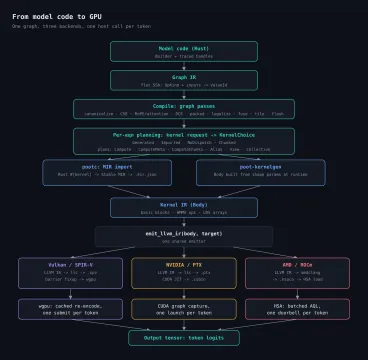
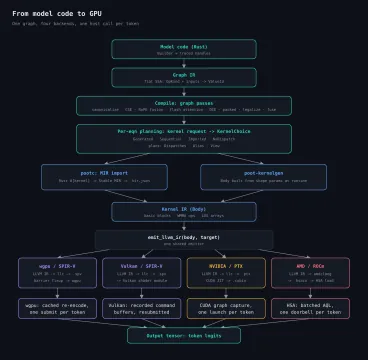
poot: refresh the four architecture diagrams from the poot repo and describe the raw Vulkan backend in their alt text

Changed region(s): [[0.0299, 0.0306, 0.9565, 0.9778], [0.0897, 0.4583, 0.1196, 0.5194]]

diff --git a/index.html b/index.html
@@ -54,10 +54,10 @@
               </summary>
               <div class="project-details">
                 <div class="project-gallery" id="poot-gallery">
-                  <label for="lb-poot-1"><img src="/projects/poot/compilation-pipeline-thumb.webp" width="368" height="360" alt="Pipeline from model code through graph IR, optimization, planning and kernel IR to SPIR-V, PTX and ROCm backends" loading="lazy" decoding="async"></label>
+                  <label for="lb-poot-1"><img src="/projects/poot/compilation-pipeline-thumb.webp" width="368" height="360" alt="Pipeline from model code through graph IR, optimization, planning and kernel IR to four backends: wgpu and raw Vulkan through SPIR-V, PTX on NVIDIA, and ROCm on AMD" loading="lazy" decoding="async"></label>
                   <label for="lb-poot-2"><img src="/projects/poot/model-tracing-thumb.webp" width="588" height="360" alt="A model written as a Rust function, traced into a graph IR that the CPU oracle or the planner consumes" loading="lazy" decoding="async"></label>
-                  <label for="lb-poot-3"><img src="/projects/poot/capture-replay-thumb.webp" width="680" height="360" alt="Per-token slots feeding one captured decode graph, replayed by the PTX, wgpu and ROCm backends" loading="lazy" decoding="async"></label>
-                  <label for="lb-poot-4"><img src="/projects/poot/rust-kernels-thumb.webp" width="629" height="360" alt="One Rust kernel imported through pootc and kernel IR and lowered to SPIR-V, PTX and AMDGCN" loading="lazy" decoding="async"></label>
+                  <label for="lb-poot-3"><img src="/projects/poot/capture-replay-thumb.webp" width="680" height="360" alt="Per-token slots feeding one captured decode graph, replayed by the PTX, wgpu, raw Vulkan and ROCm backends" loading="lazy" decoding="async"></label>
+                  <label for="lb-poot-4"><img src="/projects/poot/rust-kernels-thumb.webp" width="629" height="360" alt="One Rust kernel imported through pootc and kernel IR and lowered to SPIR-V (wgpu and raw Vulkan), PTX and AMDGCN" loading="lazy" decoding="async"></label>
                 </div>
                 <ul class="project-highlights">
                   <li>Forward pass traced once into a backend-neutral graph of primitive tensor ops, not opaque hand-written kernels.</li>
@@ -69,10 +69,10 @@
                   <li>Serving capabilities: an OpenAI-compatible HTTP API with embeddings, reranking, LoRA adapter management and metrics; text generation is being reconnected to the new single-sequence driver.</li>
                 </ul>
 <form class="lightboxes">
-                <input type="radio" name="lb-poot" id="lb-poot-1" class="lb-radio" aria-label="Pipeline from model code through graph IR, optimization, planning and kernel IR to SPIR-V, PTX and ROCm backends"><div class="lightbox" id="lightbox-poot-1"><button type="reset" class="lb-close" aria-label="Close"></button><img src="/projects/poot/compilation-pipeline.webp" width="2400" height="2350" alt="Pipeline from model code through graph IR, optimization, planning and kernel IR to SPIR-V, PTX and ROCm backends" loading="lazy" decoding="async"><label class="lb-prev" for="lb-poot-4" aria-label="Previous image">‹</label><label class="lb-next" for="lb-poot-2" aria-label="Next image">›</label></div>
+                <input type="radio" name="lb-poot" id="lb-poot-1" class="lb-radio" aria-label="Pipeline from model code through graph IR, optimization, planning and kernel IR to four backends: wgpu and raw Vulkan through SPIR-V, PTX on NVIDIA, and ROCm on AMD"><div class="lightbox" id="lightbox-poot-1"><button type="reset" class="lb-close" aria-label="Close"></button><img src="/projects/poot/compilation-pipeline.webp" width="2400" height="2350" alt="Pipeline from model code through graph IR, optimization, planning and kernel IR to four backends: wgpu and raw Vulkan through SPIR-V, PTX on NVIDIA, and ROCm on AMD" loading="lazy" decoding="async"><label class="lb-prev" for="lb-poot-4" aria-label="Previous image">‹</label><label class="lb-next" for="lb-poot-2" aria-label="Next image">›</label></div>
                 <input type="radio" name="lb-poot" id="lb-poot-2" class="lb-radio" aria-label="A model written as a Rust function, traced into a graph IR that the CPU oracle or the planner consumes"><div class="lightbox" id="lightbox-poot-2"><button type="reset" class="lb-close" aria-label="Close"></button><img src="/projects/poot/model-tracing.webp" width="2400" height="1470" alt="A model written as a Rust function, traced into a graph IR that the CPU oracle or the planner consumes" loading="lazy" decoding="async"><label class="lb-prev" for="lb-poot-1" aria-label="Previous image">‹</label><label class="lb-next" for="lb-poot-3" aria-label="Next image">›</label></div>
-                <input type="radio" name="lb-poot" id="lb-poot-3" class="lb-radio" aria-label="Per-token slots feeding one captured decode graph, replayed by the PTX, wgpu and ROCm backends"><div class="lightbox" id="lightbox-poot-3"><button type="reset" class="lb-close" aria-label="Close"></button><img src="/projects/poot/capture-replay.webp" width="2400" height="1270" alt="Per-token slots feeding one captured decode graph, replayed by the PTX, wgpu and ROCm backends" loading="lazy" decoding="async"><label class="lb-prev" for="lb-poot-2" aria-label="Previous image">‹</label><label class="lb-next" for="lb-poot-4" aria-label="Next image">›</label></div>
-                <input type="radio" name="lb-poot" id="lb-poot-4" class="lb-radio" aria-label="One Rust kernel imported through pootc and kernel IR and lowered to SPIR-V, PTX and AMDGCN"><div class="lightbox" id="lightbox-poot-4"><button type="reset" class="lb-close" aria-label="Close"></button><img src="/projects/poot/rust-kernels.webp" width="2400" height="1374" alt="One Rust kernel imported through pootc and kernel IR and lowered to SPIR-V, PTX and AMDGCN" loading="lazy" decoding="async"><label class="lb-prev" for="lb-poot-3" aria-label="Previous image">‹</label><label class="lb-next" for="lb-poot-1" aria-label="Next image">›</label></div>
+                <input type="radio" name="lb-poot" id="lb-poot-3" class="lb-radio" aria-label="Per-token slots feeding one captured decode graph, replayed by the PTX, wgpu, raw Vulkan and ROCm backends"><div class="lightbox" id="lightbox-poot-3"><button type="reset" class="lb-close" aria-label="Close"></button><img src="/projects/poot/capture-replay.webp" width="2400" height="1270" alt="Per-token slots feeding one captured decode graph, replayed by the PTX, wgpu, raw Vulkan and ROCm backends" loading="lazy" decoding="async"><label class="lb-prev" for="lb-poot-2" aria-label="Previous image">‹</label><label class="lb-next" for="lb-poot-4" aria-label="Next image">›</label></div>
+                <input type="radio" name="lb-poot" id="lb-poot-4" class="lb-radio" aria-label="One Rust kernel imported through pootc and kernel IR and lowered to SPIR-V (wgpu and raw Vulkan), PTX and AMDGCN"><div class="lightbox" id="lightbox-poot-4"><button type="reset" class="lb-close" aria-label="Close"></button><img src="/projects/poot/rust-kernels.webp" width="2400" height="1374" alt="One Rust kernel imported through pootc and kernel IR and lowered to SPIR-V (wgpu and raw Vulkan), PTX and AMDGCN" loading="lazy" decoding="async"><label class="lb-prev" for="lb-poot-3" aria-label="Previous image">‹</label><label class="lb-next" for="lb-poot-1" aria-label="Next image">›</label></div>
 </form>
               </div>
             </details>
